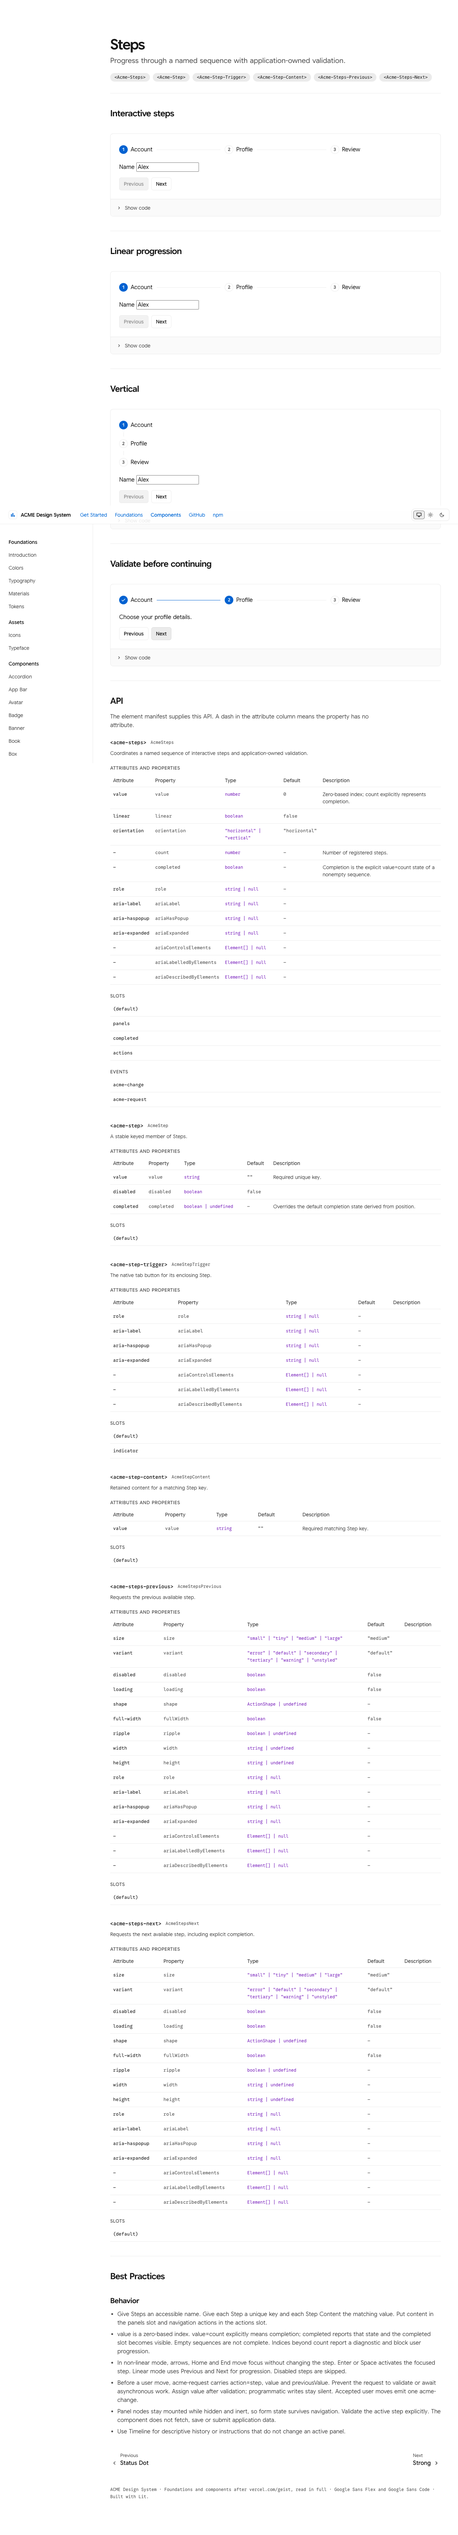
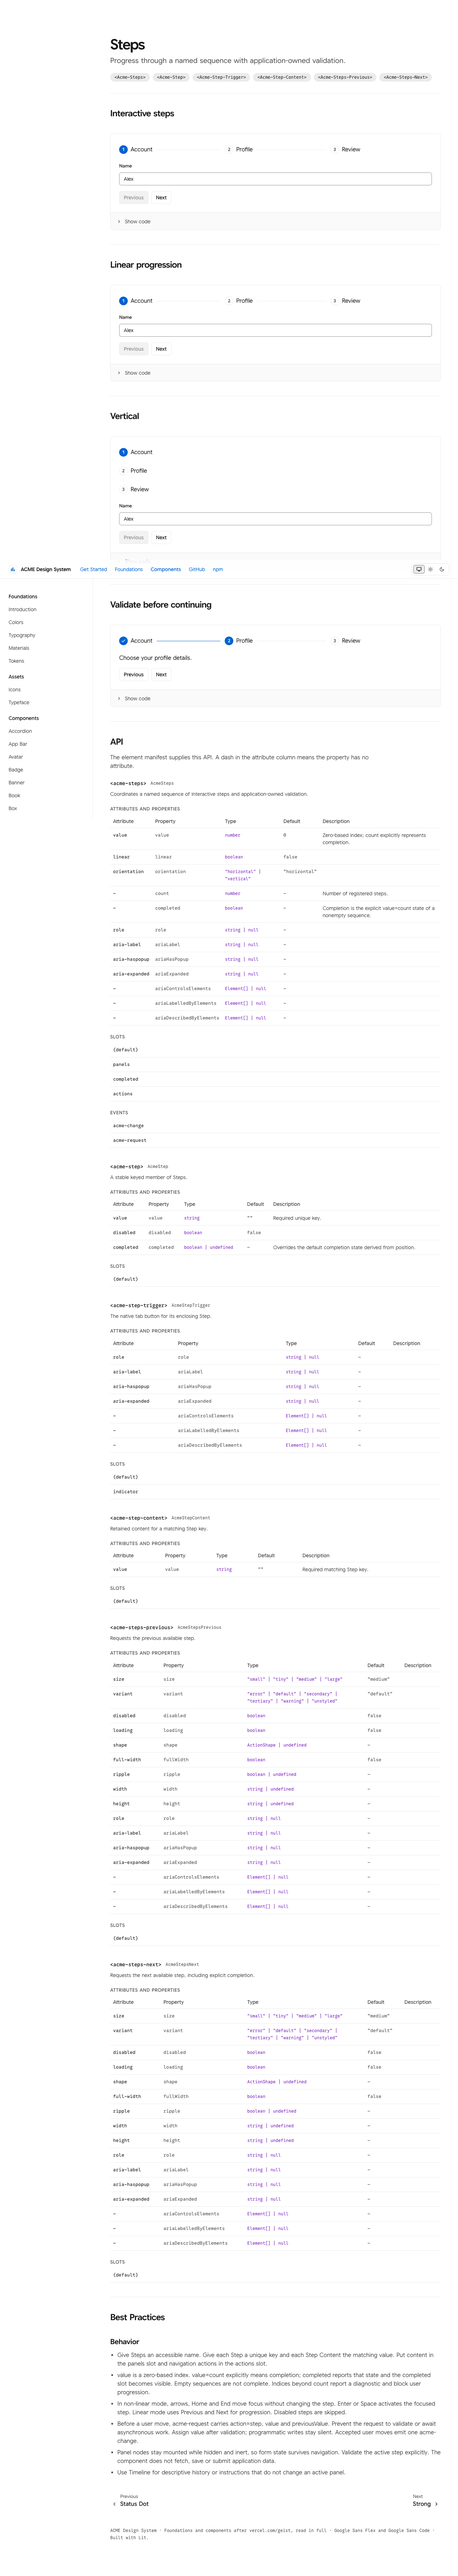
Verify Steps Field composition with native accessibility evidence

diff --git a/notes/alignment/README.md b/notes/alignment/README.md
@@ -10,7 +10,7 @@ Entry point for the current work. AGENTS.md says how to work in this repo; this 
 
 **Completed:** M01–M14 are complete at their assigned boundaries. [Calendar acceptance](evidence/m13-calendar-2026-09-23.json) closes M13 with the strict build, site, 900 tests and all-engine native/compiled/documentation/overlay checks. Final React-wrapper, actual platform and whole-library gates remain M22/M26.
 
-**Current work:** M15 is active. [Accordion/Collapsible and Show/Show More/Load More acceptance](evidence/m15-disclosure-2026-09-23.json) passes build/site, 926 tests, 23 source/compiled checks per engine, five documentation flows per engine and four M14 focus-style regressions per engine. Collapse/Collapse Group are removed. Continue Steps/Timeline, then Toolbar/App Bar/Breadcrumbs. Bring the public Dialog/Alert Dialog slice forward from M17 before Command Menu; do not create a duplicate dialog engine. [Steps/Timeline acceptance](evidence/m15-steps-timeline-2026-09-23.json) also passes build/site, 932 tests, sixteen source/compiled checks per engine and three documentation flows per engine. Continue Toolbar/App Bar/Breadcrumbs, then the Dialog dependency and Command Menu. The disclosure slice is committed as ef0f83c08; Steps/Timeline is the current verified commit slice.
+**Current work:** M15 is active. [Accordion/Collapsible and Show/Show More/Load More acceptance](evidence/m15-disclosure-2026-09-23.json) passes build/site, 926 tests, 23 source/compiled checks per engine, five documentation flows per engine and four M14 focus-style regressions per engine. Collapse/Collapse Group are removed. Continue Steps/Timeline, then Toolbar/App Bar/Breadcrumbs. Bring the public Dialog/Alert Dialog slice forward from M17 before Command Menu; do not create a duplicate dialog engine. [Steps/Timeline acceptance](evidence/m15-steps-timeline-2026-09-23.json) also passes build/site, 932 tests, sixteen source/compiled checks per engine and three documentation flows per engine. Continue Toolbar/App Bar/Breadcrumbs, then the Dialog dependency and Command Menu. The disclosure slice is committed as ef0f83c08; Steps/Timeline is committed as 125097fef. Its Field/Input documentation checks are reverified after correcting the test locator; native accessibility exposes the expected name.
 
 **Next batches:** continue M15–M26 under execution delegation. No more phase-choice questions or Plan toggles. M22/M26 retain actual platform, generated React and final release gates.
 

diff --git a/notes/analysis/lit-practice-review.md b/notes/analysis/lit-practice-review.md
@@ -786,3 +786,5 @@ The current Chakra Steps and Timeline docs, pinned Steps machine/connect/types/D
 Steps now uses canonical TanStack value with count as its documented completed state, keyed item registration, retained panels and one cancelable transition request. Public assignments remain silent and can supersede a pending request. Native roving focus provides manual activation, RTL, both orientations and disabled-step skipping; linear mode retains Previous/Next progression. Completion has a named focus destination and completed triggers have a localized description. Timeline preserves native ol/li semantics through real wrappers, with authored dates and separate decorative connectors. Sixteen source checks pass per engine. A first fixture assumed pointer clicks preserve programmatic button focus in WebKit; a bare native button reproduces the same difference, and keyboard completion focus passes without a component workaround. The first full test run preceded site generation and failed only the two-new-pages assertion; the proper build → site → full-suite order is now running.
 
 [Steps/Timeline acceptance](../alignment/evidence/m15-steps-timeline-2026-09-23.json) passes strict build/site, 932 tests, sixteen source/compiled checks per engine and three actual documentation flows per engine. The documentation validates Field + Input composition before progression. Screenshots are reviewed; normal action size is 36px high with 14px text and secondary presentation.
+
+The final Field/Input documentation check initially timed out at a Playwright accessible-name query, after the acceptance commit had incorrectly reused its earlier plain-input result. Actual Chromium accessibility names all four textboxes Name; the input carries valid ariaLabelledByElements. A corrected native-control locator verifies those references and actual invalid/valid progression in all three engines. The evidence and screenshot are refreshed with that run. Component source needed no workaround.
